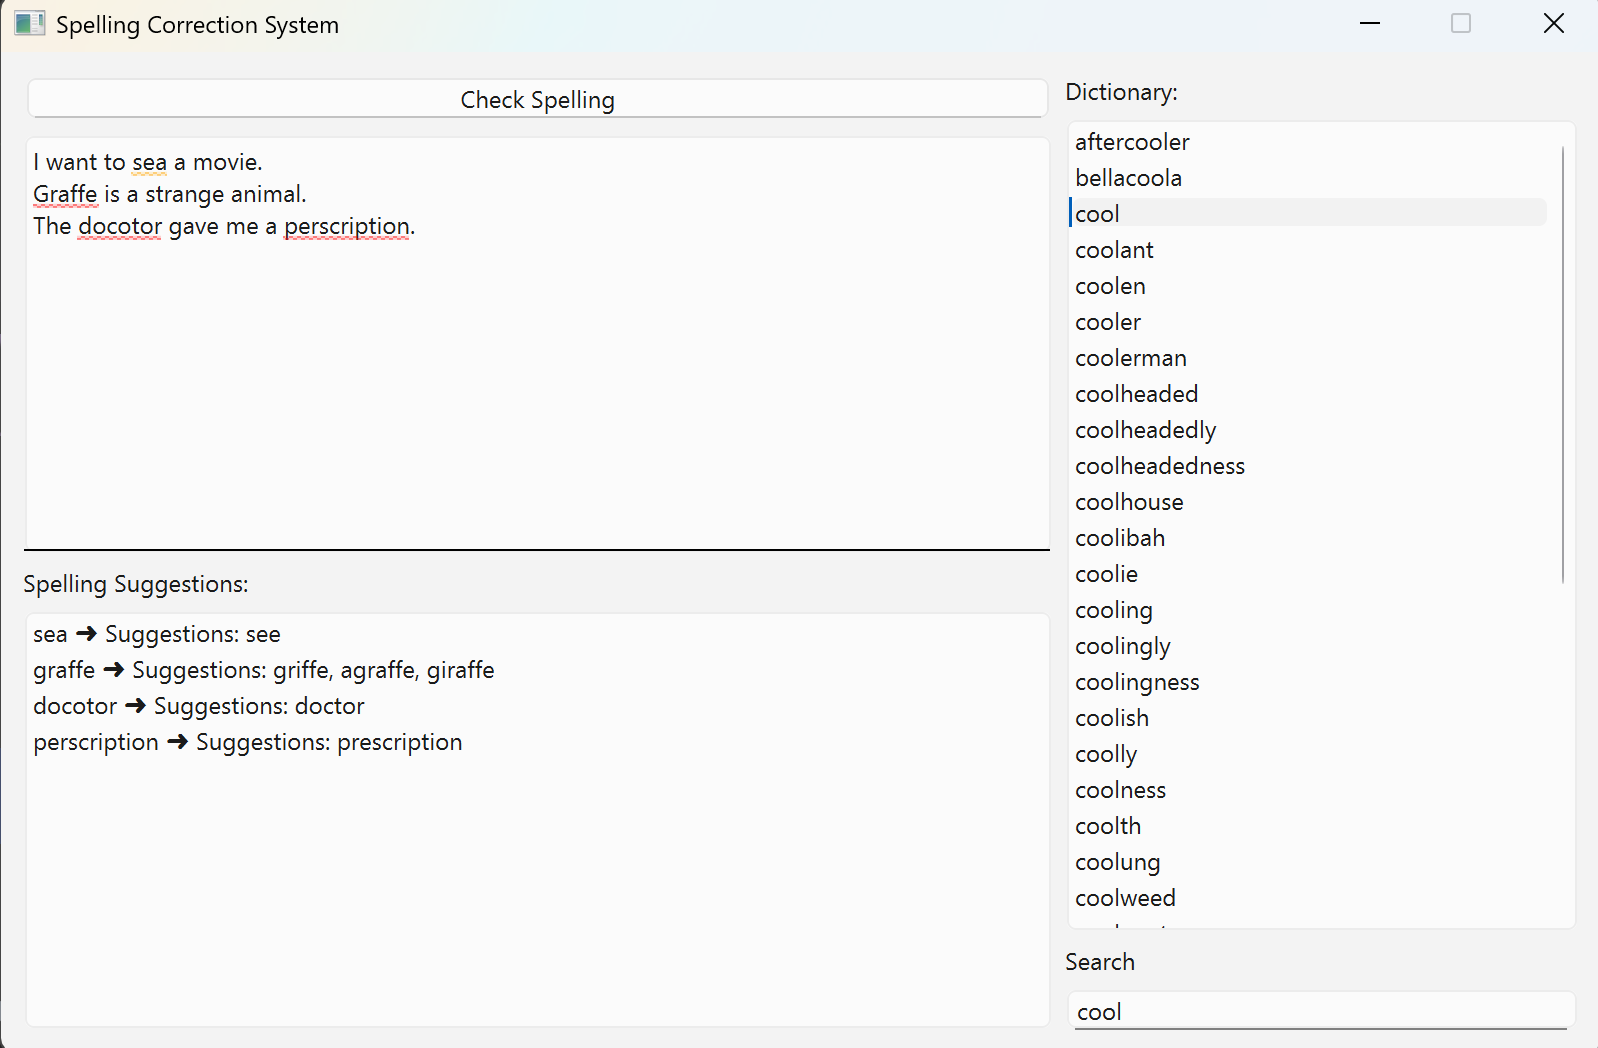
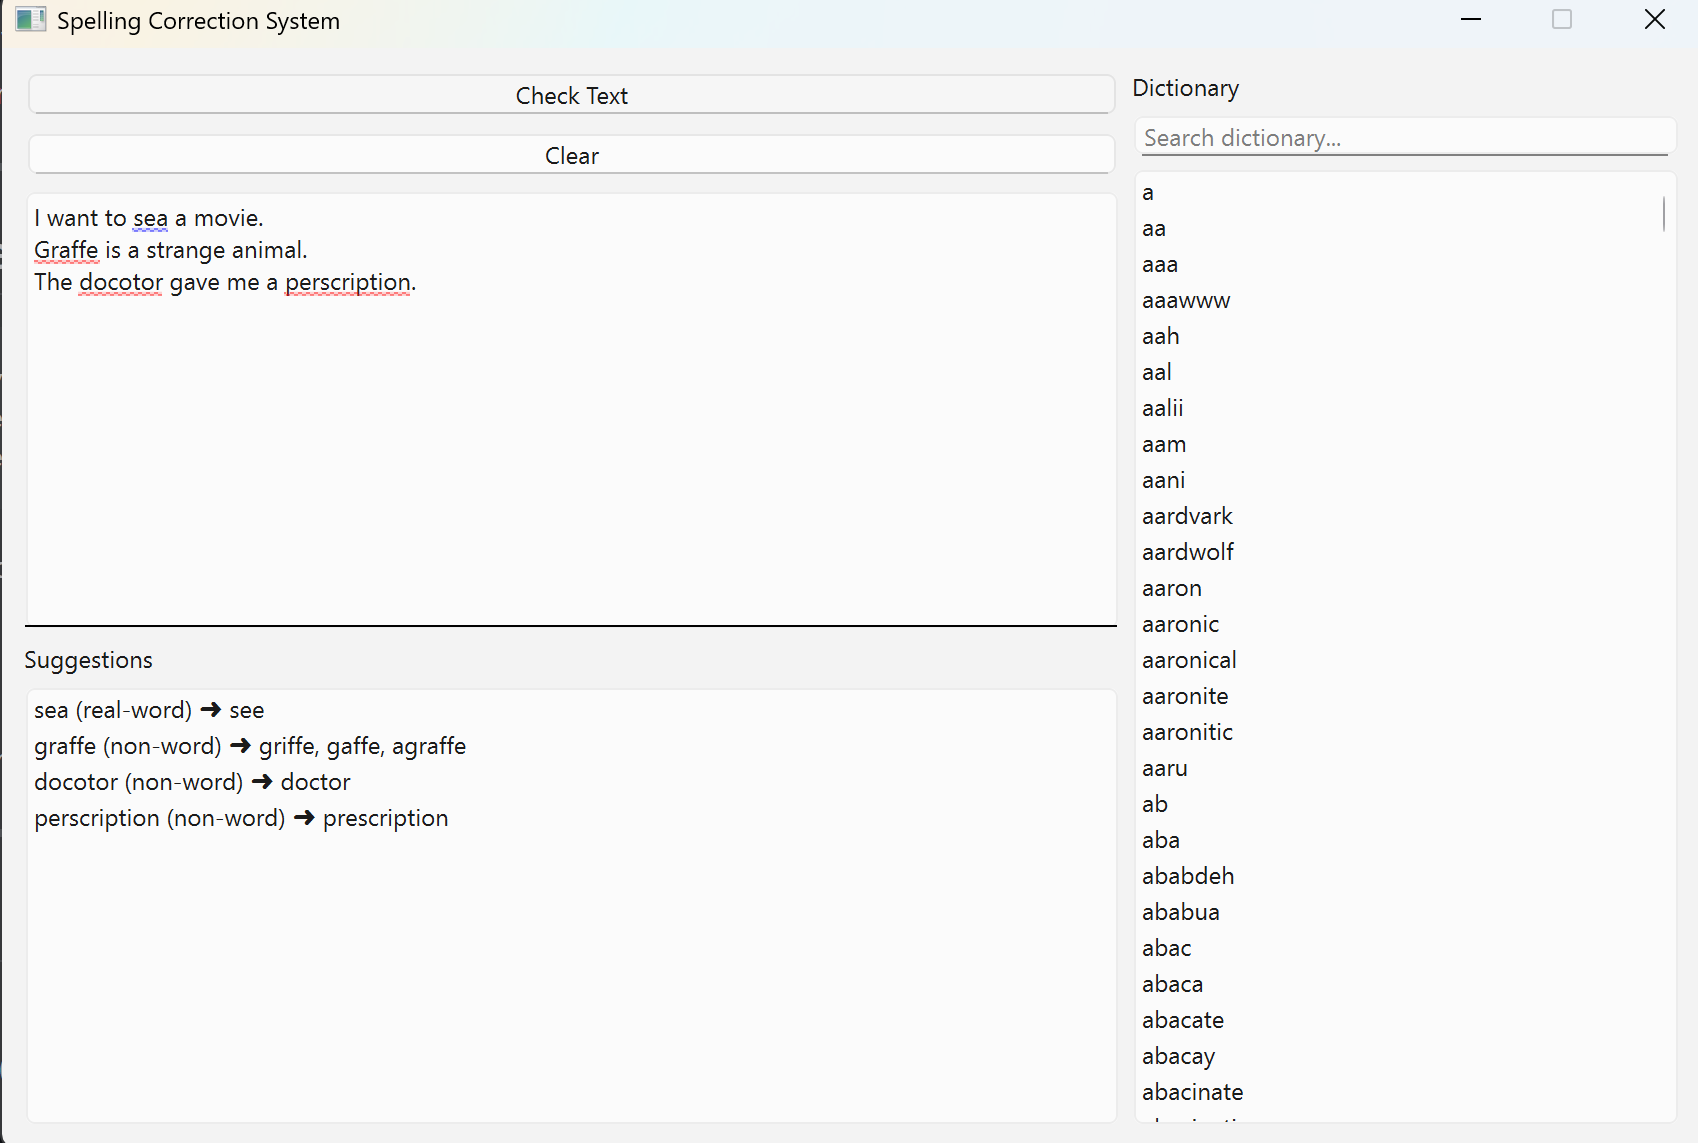
updated check text by unigrams, bigrams and trigrams

diff --git a/main.py b/main.py
@@ -1,96 +1,76 @@
 import sys
 from PySide6.QtWidgets import (
-    QApplication, QWidget, QTextEdit, QPushButton,
-    QLabel, QListWidget, QVBoxLayout, QHBoxLayout,
-    QLineEdit, QMessageBox, QMenu
+    QApplication, QWidget, QTextEdit, QPushButton, QLabel,
+    QListWidget, QVBoxLayout, QHBoxLayout, QLineEdit, QMessageBox, QMenu
 )
-from PySide6.QtCore import Qt
 from PySide6.QtGui import QTextCursor, QTextCharFormat, QColor, QAction
+from PySide6.QtCore import Qt
 
 import nltk
-from nltk.corpus import brown
-from nltk.tokenize import word_tokenize
-from nltk import bigrams, trigrams, pos_tag
+from nltk.corpus import brown, words
+from nltk import word_tokenize, bigrams, trigrams, pos_tag
 from spellchecker import SpellChecker
 from collections import Counter
 
-# First-time setup (run locally once):
-# nltk.download('punkt')
-# nltk.download('brown')
-# nltk.download('averaged_perceptron_tagger')
+# Download required NLTK data
+nltk.download('punkt')
+nltk.download('brown')
+nltk.download('words')
+nltk.download('averaged_perceptron_tagger')
+
+# NLP Model Setup
+corpus_words = [w.lower() for w in brown.words() if w.isalpha()]
+unigrams = Counter(corpus_words)
+bigrams_c = Counter(bigrams(corpus_words))
+trigrams_c = Counter(trigrams(corpus_words))
+
+dictionary = set(w.lower() for w in words.words() if w.isalpha())
+dictionary.update(w.lower() for w in brown.words() if w.isalpha())
 
 spell = SpellChecker()
-dictionary = set(spell.word_frequency.words())
-
-brown_words = [w.lower() for w in brown.words() if w.isalpha()]
-unigram_counts = Counter(brown_words)
-bigram_counts = Counter(bigrams(brown_words))
-trigram_counts = Counter(trigrams(brown_words))
 
 def trigram_prob(w1, w2, w3):
-    return trigram_counts[(w1, w2, w3)] / bigram_counts[(w1, w2)] if bigram_counts[(w1, w2)] > 0 else 0
+    return trigrams_c[(w1, w2, w3)] / bigrams_c[(w1, w2)] if bigrams_c[(w1, w2)] > 0 else 0
 
-confusion_sets = {
-    'sea': ['see'],
-    'their': ['there', 'they’re'],
-    'your': ['you’re'],
-    'its': ['it’s']
-}
-
-def grammar_errors(tokens):
-    tags = pos_tag(tokens)
-    tokens_lower = [w.lower() for w in tokens]
-    errors = {}
-    for i in range(len(tags) - 1):
-        subject = tokens[i].lower()
-        verb, verb_tag = tags[i + 1]
-
-        if subject in ['he', 'she', 'it'] and verb_tag == 'VB':
-            if verb.endswith('y') and verb[-2] not in 'aeiou':
-                suggestion = [verb[:-1] + 'ies']
-            elif verb in ['go', 'do']:
-                suggestion = [verb + 'es']
-            else:
-                suggestion = [verb + 's']
-            errors[verb.lower()] = (suggestion, 'grammar')
-    return errors
-
-def check_sentence(text):
-    tokens = word_tokenize(text)
-    tokens_lower = [w.lower() for w in tokens]
+def check_text_nlp(text):
+    tokens = word_tokenize(text.lower())
+    tagged = pos_tag(tokens)
     errors = {}
 
-    for i, word in enumerate(tokens_lower):
+    for i, (word, tag) in enumerate(tagged):
         if not word.isalpha():
             continue
 
+        # Non-word error
         if word not in dictionary:
-            suggestions = list(spell.candidates(word))
-            errors[word] = (suggestions[:3], "non-word")
-            continue
+            suggestions = spell.candidates(word)
+            errors[word] = (list(suggestions)[:3], "non-word")
 
-        if i >= 2 and word in confusion_sets:
-            trigram_score = trigram_prob(tokens_lower[i - 2], tokens_lower[i - 1], word)
-            if trigram_score < 0.001:
-                errors[word] = (confusion_sets[word], "real-word")
-                continue
+        # Real-word misuse detection
+        elif i >= 2:
+            w1, w2 = tokens[i - 2], tokens[i - 1]
+            actual_score = trigram_prob(w1, w2, word)
 
-        if i >= 2:
-            w1, w2 = tokens_lower[i - 2], tokens_lower[i - 1]
-            actual = trigram_prob(w1, w2, word)
-            candidates = spell.candidates(word)
+            candidates = spell.known(spell.edit_distance_1(word))
             ranked = sorted(
-                [w for w in candidates if w != word and w in dictionary],
+                [w for w in candidates if w in dictionary and w != word and unigrams[w] > 3],
                 key=lambda w: trigram_prob(w1, w2, w),
                 reverse=True
             )
-            if ranked:
-                top_alt = ranked[0]
-                top_prob = trigram_prob(w1, w2, top_alt)
-                if top_prob > actual * 1.5:
-                    errors[word] = ([top_alt], "real-word")
 
-    errors.update(grammar_errors(tokens))
+            if ranked:
+                best = ranked[0]
+                best_score = trigram_prob(w1, w2, best)
+                if actual_score < 0.00005 and best_score > actual_score * 8 and unigrams[word] < 300:
+                    errors[word] = ([best], "real-word")
+
+        # Grammar check
+        if i >= 2:
+            prev_word, prev_tag = tagged[i - 1]
+            prev_prev_word, prev_prev_tag = tagged[i - 2]
+            if prev_prev_tag == 'PRP' and prev_tag == 'TO' and tag in ['VB', 'VBP'] and word.endswith('s') is False:
+                errors[word] = ([word + 's'], "grammar")
+
     return errors
 
 class CustomTextEdit(QTextEdit):
@@ -126,25 +106,23 @@ class CustomTextEdit(QTextEdit):
 class SpellCheckerApp(QWidget):
     def __init__(self):
         super().__init__()
-        self.setWindowTitle("Spelling Correction System (Final Grammar Enhanced)")
-        self.setFixedSize(800, 500)
+        self.setWindowTitle("Spelling Correction System")
+        self.setFixedSize(850, 550)
 
         self.text_edit = CustomTextEdit()
-        self.text_edit.setPlaceholderText("Write something here (max 500 characters)...")
+        self.text_edit.setPlaceholderText("Write up to 500 characters...")
         self.text_edit.textChanged.connect(self.limit_text)
 
-        self.check_button = QPushButton("Check Spelling")
-        self.check_button.clicked.connect(self.check_spelling)
+        self.check_button = QPushButton("Check Text")
+        self.check_button.clicked.connect(self.check_text)
 
-        self.clear_button = QPushButton("Clear Text")
+        self.clear_button = QPushButton("Clear")
         self.clear_button.clicked.connect(self.clear_text)
 
-        self.result_label = QLabel("Suggestions:")
         self.result_list = QListWidget()
 
-        self.dict_label = QLabel("Dictionary:")
         self.search_input = QLineEdit()
-        self.search_input.setPlaceholderText("Search word...")
+        self.search_input.setPlaceholderText("Search dictionary...")
         self.search_input.textChanged.connect(self.search_dictionary)
 
         self.dictionary_list = QListWidget()
@@ -155,11 +133,11 @@ class SpellCheckerApp(QWidget):
         left_layout.addWidget(self.check_button)
         left_layout.addWidget(self.clear_button)
         left_layout.addWidget(self.text_edit)
-        left_layout.addWidget(self.result_label)
+        left_layout.addWidget(QLabel("Suggestions"))
         left_layout.addWidget(self.result_list)
 
         right_layout = QVBoxLayout()
-        right_layout.addWidget(self.dict_label)
+        right_layout.addWidget(QLabel("Dictionary"))
         right_layout.addWidget(self.search_input)
         right_layout.addWidget(self.dictionary_list)
 
@@ -180,35 +158,31 @@ class SpellCheckerApp(QWidget):
         self.text_edit.clear()
         self.result_list.clear()
 
-    def check_spelling(self):
+    def check_text(self):
         self.result_list.clear()
         text = self.text_edit.toPlainText()
-        self.highlight_errors({}, clear=True)
-
         if not text.strip():
-            QMessageBox.warning(self, "Empty Text", "Please write something first.")
+            QMessageBox.warning(self, "Empty", "Please enter some text.")
             return
 
-        results = check_sentence(text)
-        self.text_edit.set_suggestions_map(results)
-        self.highlight_errors(results)
+        errors = check_text_nlp(text)
+        self.highlight_errors(errors)
+        self.text_edit.set_suggestions_map(errors)
 
-        if not results:
-            self.result_list.addItem("No spelling or grammar errors found.")
+        if not errors:
+            self.result_list.addItem("No errors found.")
         else:
-            for word, (suggestions, error_type) in results.items():
-                self.result_list.addItem(f"{word} ({error_type}) ➜ {', '.join(suggestions)}")
+            for word, (suggestions, err_type) in errors.items():
+                self.result_list.addItem(f"{word} ({err_type}) ➜ {', '.join(suggestions)}")
 
-    def highlight_errors(self, errors, clear=False):
+    def highlight_errors(self, errors):
         cursor = self.text_edit.textCursor()
         cursor.select(QTextCursor.Document)
-        fmt_clear = QTextCharFormat()
-        cursor.setCharFormat(fmt_clear)
-        if clear:
-            return
+        cursor.setCharFormat(QTextCharFormat())
 
         text = self.text_edit.toPlainText()
         text_lower = text.lower()
+
         for word, (_, err_type) in errors.items():
             fmt = QTextCharFormat()
             fmt.setUnderlineStyle(QTextCharFormat.SpellCheckUnderline)
